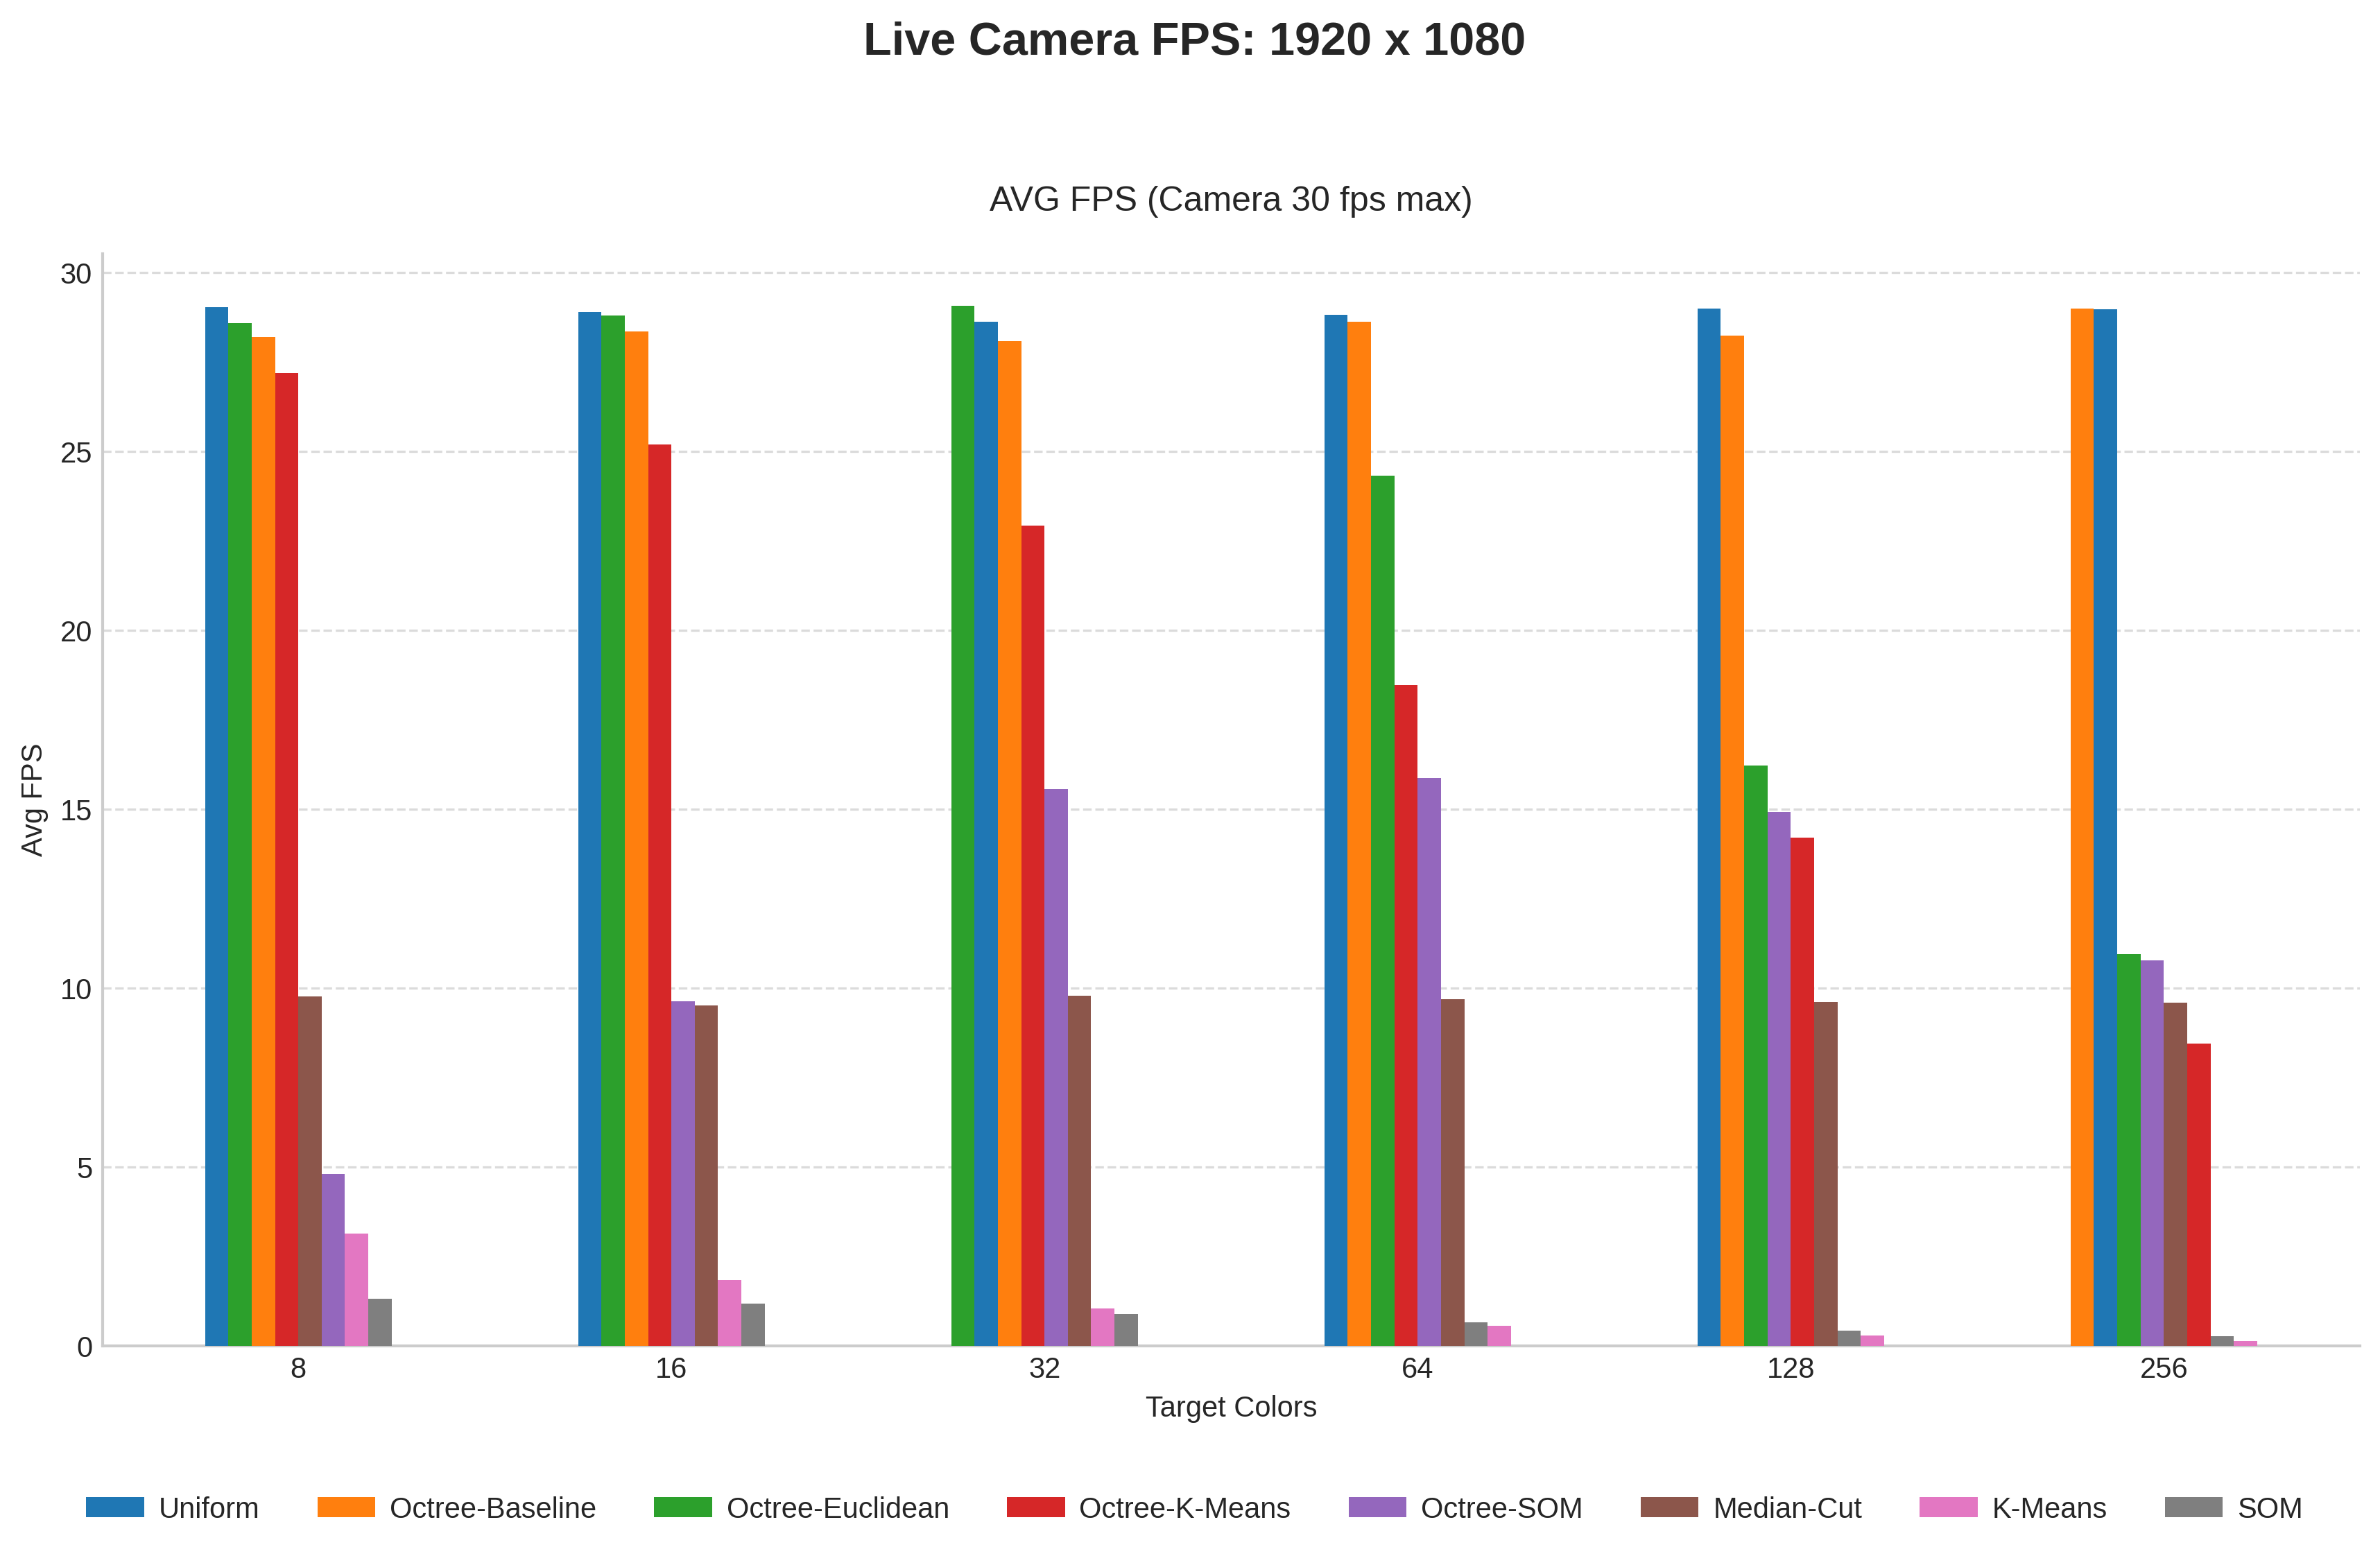
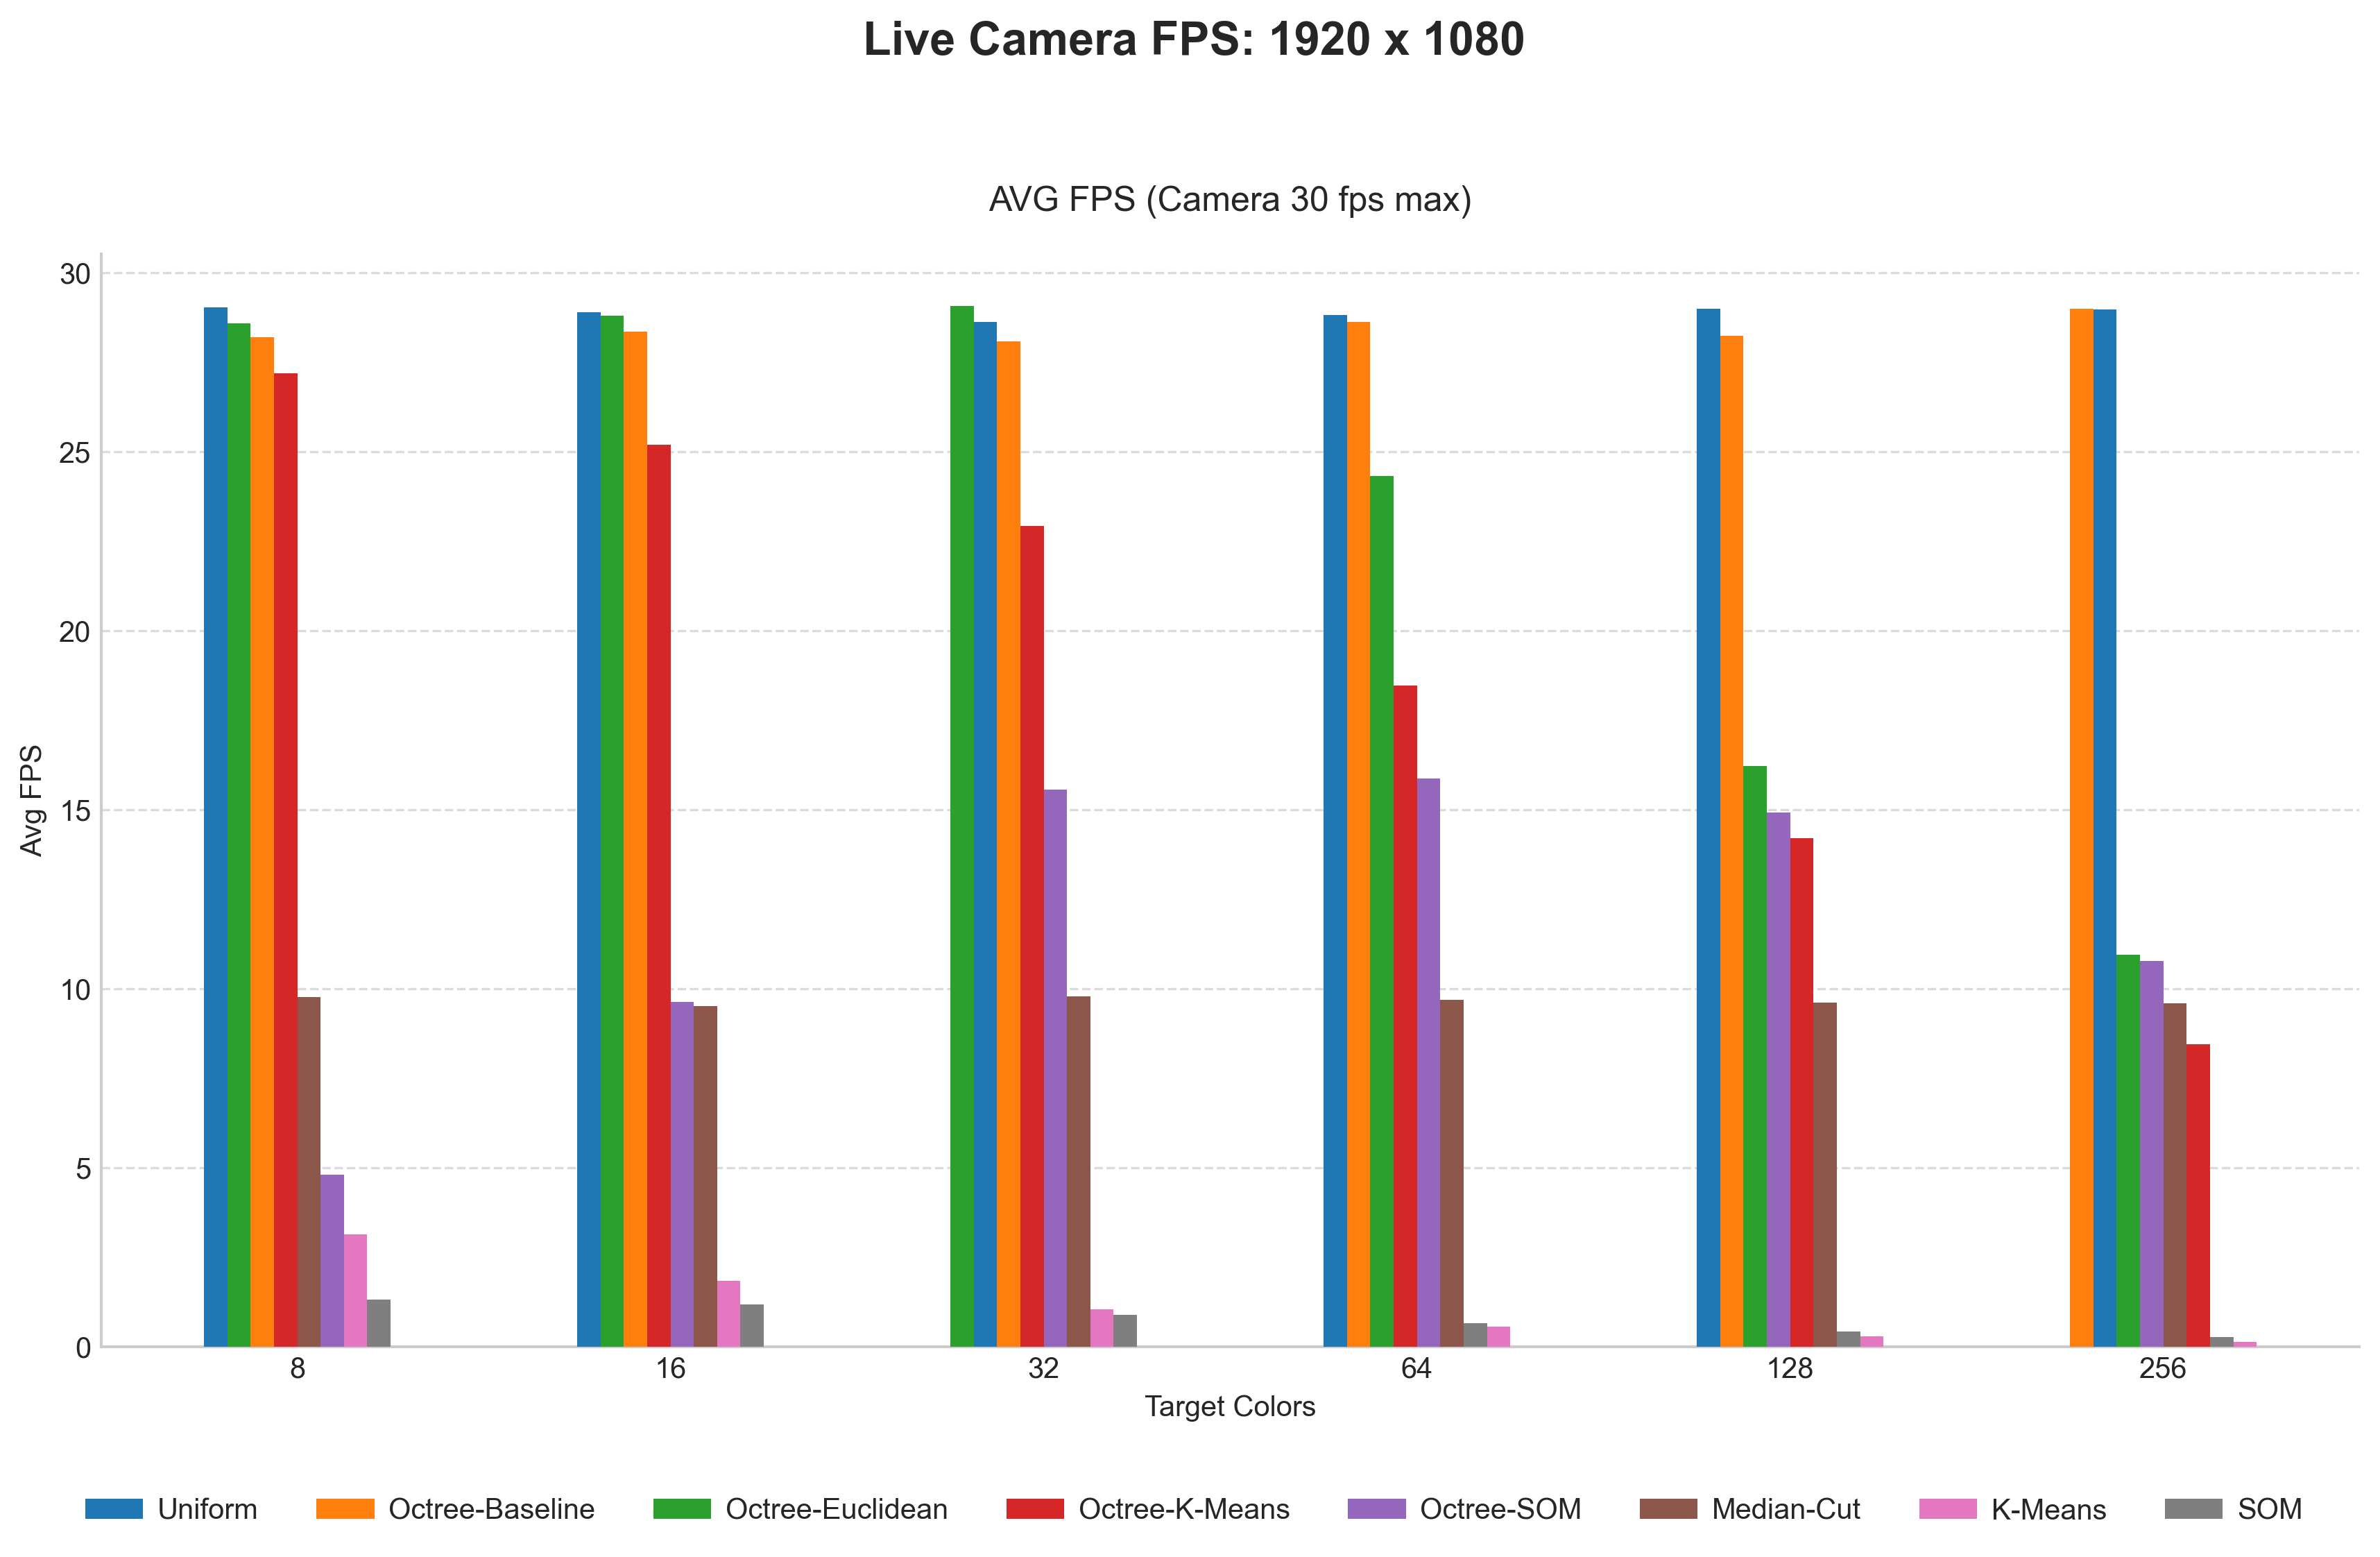
Added game chart fps

diff --git a/PW2/generate_live_game_charts.py b/PW2/generate_live_game_charts.py
@@ -1,0 +1,128 @@
+import argparse
+import sys
+from pathlib import Path
+
+import matplotlib.pyplot as plt
+import numpy as np
+import pandas as pd
+from matplotlib.patches import Patch
+
+PROJECT_ROOT = Path(__file__).resolve().parent
+if str(PROJECT_ROOT) not in sys.path:
+    sys.path.insert(0, str(PROJECT_ROOT))
+
+from utils.macros import OUTPUT_STATS_DIR
+
+DEFAULT_CSV_PATH = OUTPUT_STATS_DIR / "camera_fps" / "live_camera_fps_1.csv"
+
+def generate_live_fps_charts(csv_path: Path):
+    if not csv_path.exists():
+        print(f"Error: CSV file '{csv_path}' not found. Please run the benchmark first.")
+        return
+
+    df = pd.read_csv(csv_path)
+
+    # Required columns
+    required_cols = {'Resolution', 'Algorithm', 'Colors', 'Avg FPS', 'Avg Full Loop (ms)', 'Avg C++ Math (ms)'}
+    missing = required_cols - set(df.columns)
+    if missing:
+        print(f"Error: Missing columns in CSV: {missing}")
+        return
+
+    out_dir = csv_path.parent / "live_game_charts"
+    out_dir.mkdir(parents=True, exist_ok=True)
+
+    # Ignore Shader-Acerola
+    df = df[df["Algorithm"] != "Shader-Acerola"].copy()
+
+    unique_resolutions = df["Resolution"].unique()
+    print(f"Found {len(unique_resolutions)} unique resolutions. Generating charts...")
+
+    for resolution in unique_resolutions:
+        res_df = df[df["Resolution"] == resolution].copy()
+
+        target_order = sorted(res_df["Colors"].dropna().unique().tolist())
+        algorithm_order = res_df.groupby("Algorithm")["Avg FPS"].mean().sort_values(ascending=False).index.tolist()
+        
+        algorithm_colors = {
+            algorithm: plt.cm.tab10(index % 10)
+            for index, algorithm in enumerate(algorithm_order)
+        }
+
+        # Create plot for Avg FPS
+        plt.style.use("seaborn-v0_8-whitegrid")
+        fig, ax_fps = plt.subplots(1, 1, figsize=(14, 7))
+
+        group_width = 0.8
+        x_positions = np.arange(len(target_order)) * 1.6
+        max_bars = len(algorithm_order)
+        bar_width = group_width / max(1, max_bars)
+
+        for x_position, target_color in zip(x_positions, target_order):
+            c_df = res_df[res_df["Colors"] == target_color].copy()
+
+            # Align bars consistently by algorithm_order
+            total_width = bar_width * len(algorithm_order)
+            start = x_position - total_width / 2 + bar_width / 2
+
+            for bar_index, algorithm in enumerate(algorithm_order):
+                row = c_df[c_df["Algorithm"] == algorithm]
+                if not row.empty:
+                    val_fps = row["Avg FPS"].values[0]
+                    left = start + bar_index * bar_width
+
+                    ax_fps.bar(left, val_fps, width=bar_width, color=algorithm_colors[algorithm], edgecolor="none")
+
+        # Format FPS Chart
+        ax_fps.set_xticks(x_positions)
+        ax_fps.set_xticklabels(target_order, rotation=0)
+        ax_fps.set_title("Avg FPS", pad=15)
+        ax_fps.set_xlabel("Target Colors")
+        ax_fps.set_ylabel("FPS")
+        ax_fps.grid(axis="y", linestyle="--", alpha=0.7)
+        ax_fps.grid(axis="x", visible=False)
+        ax_fps.spines["top"].set_visible(False)
+        ax_fps.spines["right"].set_visible(False)
+        
+        # Add 60 FPS reference line
+        ax_fps.axhline(60, color='red', linestyle=':', alpha=0.5)
+
+        fig.suptitle(f"Live Game Capture Benchmark ({resolution})", fontsize=16, fontweight="bold", y=1.05)
+
+        legend_order = algorithm_order
+        ordered_handles = [Patch(facecolor=algorithm_colors[algorithm], label=algorithm) for algorithm in legend_order]
+        
+        fig.legend(
+            ordered_handles,
+            legend_order,
+            loc="lower center",
+            ncol=len(ordered_handles),
+            bbox_to_anchor=(0.5, -0.05),
+            frameon=False,
+            handletextpad=0.5,
+        )
+
+        plt.tight_layout()
+
+        safe_res = resolution.replace(" ", "")
+        output_file = out_dir / f"live_game_comparison_{safe_res}.png"
+        plt.savefig(output_file, bbox_inches="tight", dpi=300)
+        plt.close()
+        print(f"Generated chart: {output_file}")
+
+
+def main():
+    parser = argparse.ArgumentParser(description="Generate live game FPS charts from benchmark CSV.")
+    parser.add_argument(
+        "--csv",
+        type=str,
+        default=str(DEFAULT_CSV_PATH),
+        help="Path to the live game FPS benchmark CSV file.",
+    )
+    args = parser.parse_args()
+
+    generate_live_fps_charts(Path(args.csv))
+
+
+if __name__ == "__main__":
+    main()

diff --git a/PW2/pipelines/phase4_game.py b/PW2/pipelines/phase4_game.py
@@ -6,9 +6,10 @@ import tkinter as tk
 from tkinter import ttk
 import ctypes
 import cv2
+import pandas as pd
 
-from pipelines.phase1_image import run_algorithm
-from utils.macros import ALGORITHMS 
+from pipelines.phase1_image import run_algorithm, get_next_csv_path
+from utils.macros import ALGORITHMS, OUTPUT_STATS_DIR 
 
 if sys.platform == "win32":
     import pygetwindow as gw
@@ -61,6 +62,9 @@ class GhostOverlayApp:
         self.window_cb.pack()
         self.refresh_windows()
 
+        ttk.Button(root, text="Run FPS Benchmark", command=self.start_benchmark).pack(pady=(10,0))
+        self.benchmark_mode = False
+
         self.algo_cb.bind("<<ComboboxSelected>>", self.on_change)
         self.color_cb.bind("<<ComboboxSelected>>", self.on_change)
         self.window_cb.bind("<<ComboboxSelected>>", self.on_window_change)
@@ -70,6 +74,13 @@ class GhostOverlayApp:
         self.overlay_title = "GhostGameOverlay_1337"
         self.capture_thread = threading.Thread(target=self.screen_worker_loop, daemon=False)
         self.capture_thread.start()
+
+    def start_benchmark(self):
+        if not self.current_target:
+            print("Please select a target game first to start capturing.")
+            return
+        print("Benchmark requested... Waiting for capture loop to begin sequence.")
+        self.benchmark_mode = True
 
     def on_window_change(self, event):
         self.current_target = self.window_cb.get()
@@ -180,6 +191,11 @@ class GhostOverlayApp:
                     self.vcam = pyvirtualcam.Camera(width=capture_w, height=capture_h, fps=60)
                     print(f"Virtual Camera locked to game resolution: {capture_w}x{capture_h}")
 
+                if self.benchmark_mode:
+                    self.run_benchmark(camera, capture_w, capture_h)
+                    self.benchmark_mode = False
+                    continue
+
             except Exception:
                 time.sleep(0.01)
                 continue
@@ -257,6 +273,87 @@ class GhostOverlayApp:
                 print(f"[Worker] DXCam: {dx_ms:.1f}ms | C++ Math: {cpp_ms:.1f}ms | NP Copy: {numpy_convert_ms:.1f}ms | OpenCV: {cv2_ms:.1f}ms | VCam: {vcam_ms:.1f}ms | Loop: {total_loop_ms:.1f}ms")
             
         if camera.is_capturing: camera.stop()
+
+    def run_benchmark(self, camera, w, h):
+        print(f"\n--- Starting Live FPS Benchmark ({w}x{h}) ---")
+        results = []
+        colors_to_test = [8, 16, 32, 64, 128, 256]
+        frames_per_test = 60 # Run 60 frames per configuration
+        
+        for algo in ALGORITHMS:
+            for colors in colors_to_test:
+                print(f"Benchmarking {algo} @ {colors} colors...")
+                
+                # Warmup frames
+                for _ in range(10):
+                    frame_rgb = camera.grab()
+                    if frame_rgb is not None:
+                        frame_rgb = np.ascontiguousarray(frame_rgb)
+                        try:
+                            run_algorithm(algo, frame_rgb, colors)
+                        except Exception:
+                            pass
+                
+                total_cpp_ms = 0
+                total_loop_ms = 0
+                valid_frames = 0
+                
+                for _ in range(frames_per_test):
+                    t_loop_start = time.perf_counter()
+                    
+                    frame_rgb = camera.grab()
+                    if frame_rgb is None:
+                        time.sleep(0.01)
+                        continue
+                        
+                    frame_rgb = np.ascontiguousarray(frame_rgb)
+                    
+                    t_cpp_start = time.perf_counter()
+                    try:
+                        processed_pil = run_algorithm(algo, frame_rgb, colors)
+                    except Exception:
+                        processed_pil = None
+                    t_cpp_end = time.perf_counter()
+                    
+                    if processed_pil is not None:
+                        final_frame = np.array(processed_pil)
+                    else:
+                        final_frame = frame_rgb
+                        
+                    # Emulate standard pipeline flow
+                    cv2.imshow(self.overlay_title, cv2.cvtColor(final_frame, cv2.COLOR_RGB2BGR))
+                    cv2.waitKey(1)
+                    if self.vcam is not None:
+                        self.vcam.send(final_frame)
+                    
+                    t_loop_end = time.perf_counter()
+                    
+                    total_cpp_ms += (t_cpp_end - t_cpp_start) * 1000
+                    total_loop_ms += (t_loop_end - t_loop_start) * 1000
+                    valid_frames += 1
+                
+                if valid_frames > 0:
+                    avg_cpp_ms = total_cpp_ms / valid_frames
+                    avg_full_ms = total_loop_ms / valid_frames
+                    avg_fps = 1000.0 / avg_full_ms if avg_full_ms > 0 else 0
+                    
+                    results.append({
+                        'Resolution': f"{w}x{h}",
+                        'Algorithm': algo,
+                        'Colors': colors,
+                        'Avg FPS': avg_fps,
+                        'Avg Full Loop (ms)': avg_full_ms,
+                        'Avg C++ Math (ms)': avg_cpp_ms
+                    })
+                    print(f"  -> {avg_fps:.1f} FPS | Math: {avg_cpp_ms:.1f} ms | Loop: {avg_full_ms:.1f} ms")
+                    
+        out_dir = OUTPUT_STATS_DIR / "camera_fps"
+        out_dir.mkdir(parents=True, exist_ok=True)
+        out_path = get_next_csv_path(out_dir, "live_camera_fps")
+        
+        df = pd.DataFrame(results)
+        df.to_csv(out_path, index=False)
+        print(f"\n--- Benchmark Complete! Saved to {out_path.name} ---")
 
     def on_closing(self):
         self.running = False

diff --git a/PW2/core/algorithm.py b/PW2/core/algorithm.py
@@ -77,7 +77,7 @@ def shader_acerola(original_image_frame: np.ndarray,
     
     # ---------------------------------------------------------
     # TWEAKABLE FIELDS
-    pixel_scale = 2             # 1 = HD, 4 = GBA style, 8 = Gameboy style
+    pixel_scale = 1             # 1 = HD, 4 = GBA style, 8 = Gameboy style
     apply_sharpness = False     # True = Acerola's edge enhancing matrix
     custom_spread = 0           # None = Auto-calculate mathematically perfect spread
     use_palette = False         # True = Extract custom palette from image, False = Uniform quantization